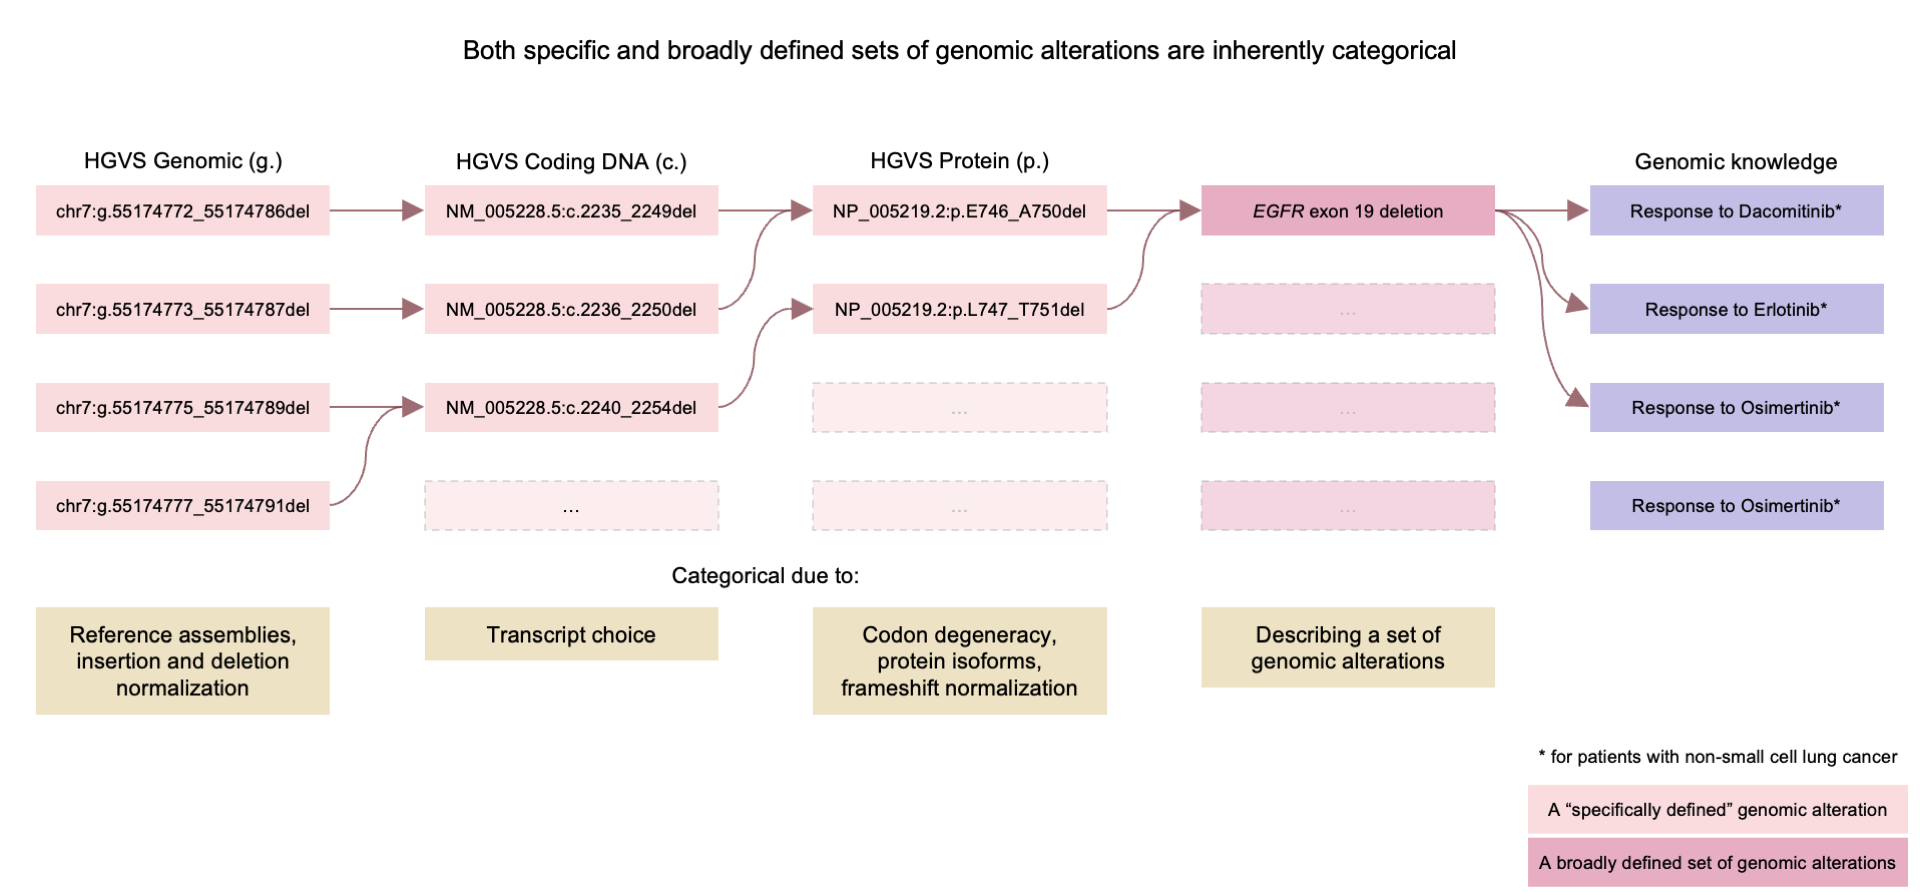
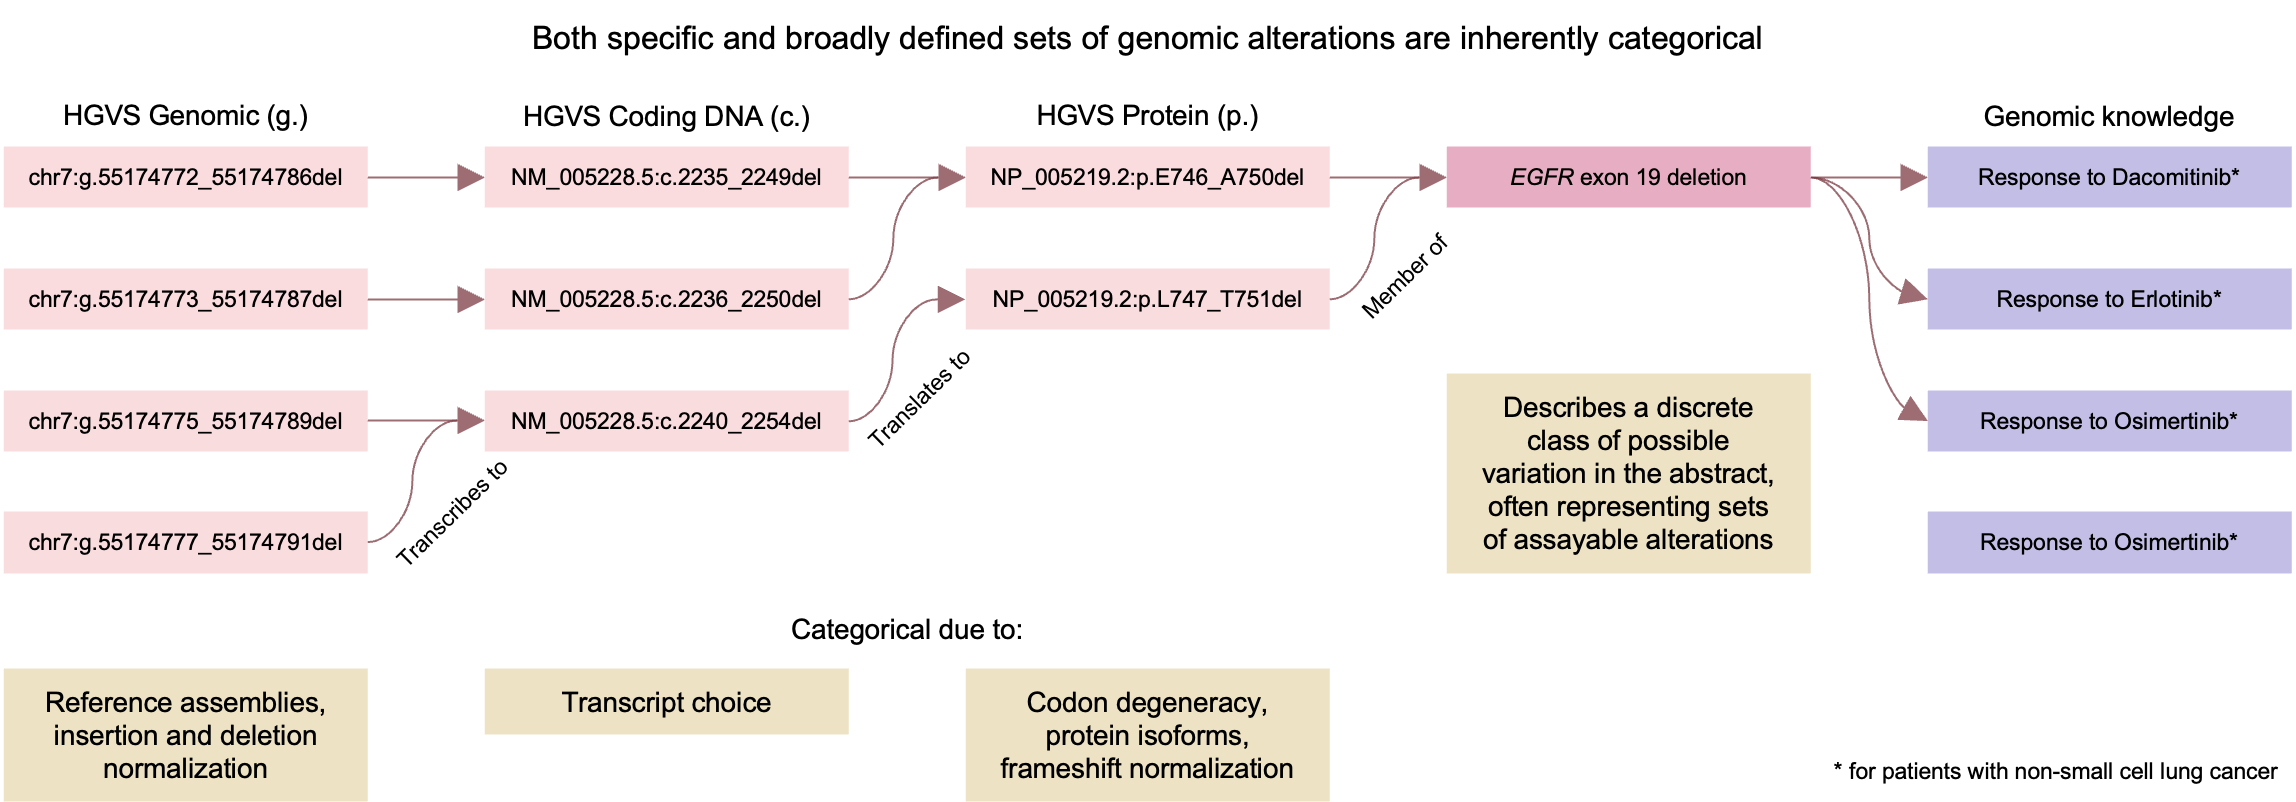
Incorporated iterated text, flowchart annotations, and decreased vertical space

diff --git a/figures/fig-1/README.md b/figures/fig-1/README.md
@@ -6,6 +6,7 @@ Both specific and broadly defined sets of genomic alterations are inherently cat
 - [chr7:g.55174775_55174789del](https://grch38.genomenexus.org/variant/chr7:g.55174775_55174789del); NM_005228.5(EGFR):c.2240_2254del(p.L747_T751del)
 - [chr7:g.55174777_55174791del](https://grch38.genomenexus.org/variant/chr7:g.55174775_55174789del); NM_005228.5(EGFR):c.2240_2254del(p.L747_T751del)
 
+***
 
 Here's a couple other versions of the figure I mocked up this morning to channel some ideas I had to improve clarity and explanatory value of the figure.
 
